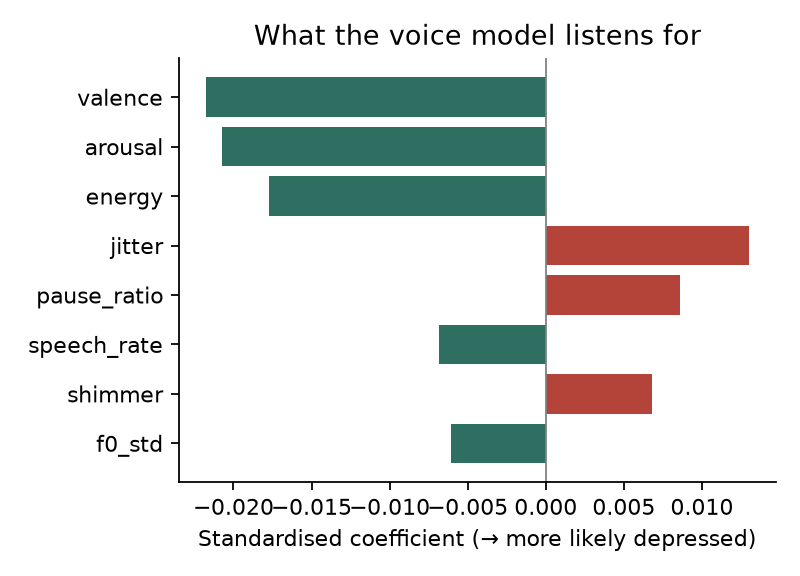
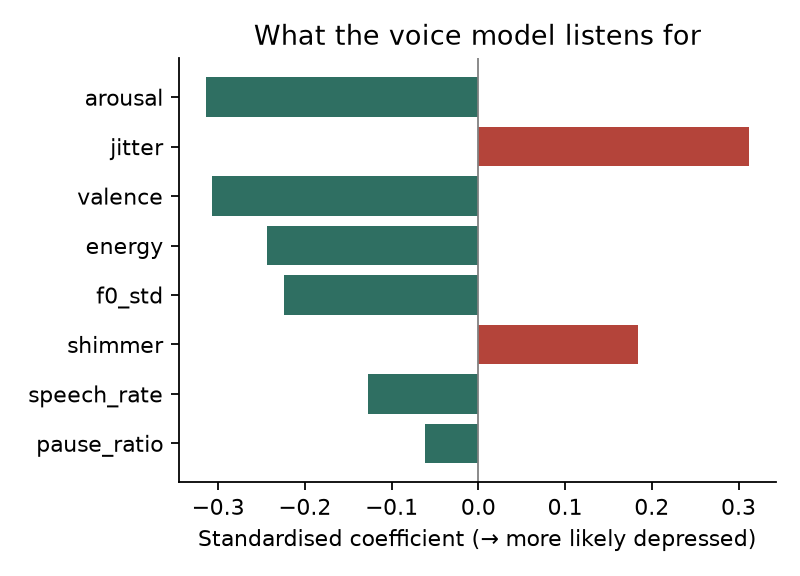
Calibrate acoustic model; add score_clip.py for own recordings
- choose C by log-loss instead of AUC: AUC is scale-blind, so the inner CV
  picked the boundary C=0.001 and squashed all probabilities to ~0.5
  (now C=0.066, AUC 0.77)
- features whose multivariate sign flips vs literature (pause_ratio,
  collinearity) keep the literature direction
- ml/score_clip.py scores any wav/m4a/mp3 against the corpus

diff --git a/ml/score_clip.py b/ml/score_clip.py
@@ -1,0 +1,78 @@
+"""Score your own audio clip(s) against the Androids-trained acoustic model.
+
+  backend/.venv/bin/python ml/score_clip.py ~/Desktop/meg.m4a [more files ...]
+
+Uses the same feature code as the app, refits the speaker-level logistic regression on
+data/features/interview_clips.csv (seconds) and prints, per clip:
+  - P(depressed-like voice) according to the between-person model
+  - each feature's value, where it falls among corpus controls / patients, and its push on the score
+
+NOT a diagnosis: the model is trained on 114 Italian speakers with different microphones, and in the
+app it is only used to weight within-person *change*, never to classify a person.
+"""
+
+import subprocess
+import sys
+import tempfile
+import warnings
+from pathlib import Path
+
+import numpy as np
+import pandas as pd
+
+sys.path.insert(0, str(Path(__file__).resolve().parents[1] / "backend"))
+sys.path.insert(0, str(Path(__file__).resolve().parent))
+warnings.filterwarnings("ignore")
+
+from app.pipeline import audio, emotion, prosody  # noqa: E402
+from corpus import FEATURES  # noqa: E402
+from train_weights import APP_FEATURES, model, speaker_table  # noqa: E402
+
+
+def to_wav(path: Path) -> Path:
+    """soundfile reads wav/flac/ogg; anything else (m4a, mp3, aac …) is converted with macOS afconvert."""
+    try:
+        import soundfile as sf
+
+        sf.info(str(path))
+        return path
+    except Exception:  # noqa: BLE001
+        out = Path(tempfile.mkdtemp()) / (path.stem + ".wav")
+        subprocess.run(["afconvert", "-f", "WAVE", "-d", "LEI16@16000", str(path), str(out)], check=True)
+        return out
+
+
+def main() -> None:
+    if len(sys.argv) < 2:
+        sys.exit(__doc__)
+    spk = speaker_table(pd.read_csv(FEATURES / "interview_clips.csv"))
+    cols = [f"app_{f}" for f in APP_FEATURES]
+    X, y = spk[cols].to_numpy(), spk["label"].to_numpy()
+    clf = model().fit(X, y)
+    scaler, lr = clf[0], clf[-1]
+    ctrl, pat = spk[y == 0], spk[y == 1]
+
+    for arg in sys.argv[1:]:
+        path = Path(arg).expanduser()
+        x = audio.load(str(to_wav(path)))
+        feats = prosody.from_full(prosody.extract_full_signal(x))
+        feats.update(emotion.run_signal(x)[1])
+        v = np.array([[feats[f] for f in APP_FEATURES]])
+        p = clf.predict_proba(v)[0, 1]
+        push = scaler.transform(v)[0] * lr.coef_[0]
+
+        print(f"\n{path.name}  ({len(x) / audio.SR:.1f} s)")
+        print(f"  P(depressed-like voice) = {p:.2f}   (corpus base rate {y.mean():.2f})")
+        print(f"  {'feature':12s} {'value':>9s}  {'pct ctrl':>8s} {'pct pat':>8s}  push")
+        for i, f in sorted(enumerate(APP_FEATURES), key=lambda t: -abs(push[t[0]])):
+            pc = (ctrl[f"app_{f}"] < v[0, i]).mean() * 100
+            pp = (pat[f"app_{f}"] < v[0, i]).mean() * 100
+            arrow = "▲ toward depressed" if push[i] > 0 else "▼ toward control"
+            print(f"  {f:12s} {v[0, i]:9.3f}  {pc:7.0f}% {pp:7.0f}%  {arrow} ({push[i]:+.3f})")
+        if len(x) < 8 * audio.SR:
+            print("  ⚠  Short clip – corpus clips are ~13 s median; 15–60 s of free speech gives steadier features.")
+    print("\nNot a diagnosis: between-person model, Italian corpus, different microphones.")
+
+
+if __name__ == "__main__":
+    main()

diff --git a/ml/train_weights.py b/ml/train_weights.py
@@ -48,7 +48,7 @@ def _logreg() -> LogisticRegressionCV:
     # C (regularisation) chosen by inner CV on the training part of each outer fold
     return LogisticRegressionCV(
         Cs=np.logspace(-3, 2, 12), cv=StratifiedKFold(4, shuffle=True, random_state=0),
-        scoring="roc_auc", class_weight="balanced", max_iter=5000,
+        scoring="neg_log_loss", class_weight="balanced", max_iter=5000,  # log-loss → calibrated probabilities (AUC is scale-blind)
         l1_ratios=(0.0,), use_legacy_attributes=False,  # pure L2
     )
 
@@ -156,11 +156,15 @@ def main() -> None:
     beta = final[-1].coef_[0]
     total = np.abs(beta).sum() or 1.0
     weights = {f: round(float(abs(b) / total), 4) for f, b in zip(feats, beta)}
-    direction = {f: int(np.sign(b)) or LITERATURE[f] for f, b in zip(feats, beta)}
-    disagree = [f for f in feats if direction[f] != LITERATURE[f]]
+    trained_dir = {f: int(np.sign(b)) or LITERATURE[f] for f, b in zip(feats, beta)}
+    disagree = [f for f in feats if trained_dir[f] != LITERATURE[f]]
+    # A sign flip in the multivariate fit is usually collinearity (the feature's unique share given
+    # correlated ones), not evidence that the marginal effect is reversed. For within-person change we
+    # want the marginal direction, so flipped features keep the literature direction (weights stay small).
+    direction = {f: LITERATURE[f] if f in disagree else trained_dir[f] for f in feats}
     print("  weights:", weights)
     if disagree:
-        print("  ⚠  direction contradicts literature for:", disagree)
+        print("  ⚠  multivariate sign contradicts literature for:", disagree, "→ keeping literature direction")
 
     payload = {
         "branch": "acoustic",
@@ -219,7 +223,7 @@ def write_reports(results: dict, y: np.ndarray, feats: list[str], beta: np.ndarr
         f"| {labels.get(k, k)} | {r['mean']:.3f} ± {r['std']:.3f} | {r['pooled']:.3f} |" for k, r in results.items()
     )
     coef_rows = "\n".join(
-        f"| `{f}` | {b:+.3f} | {payload['weights'][f]:.3f} | {'⚠ differs' if f in payload['literature_disagreements'] else 'agrees'} |"
+        f"| `{f}` | {b:+.3f} | {payload['weights'][f]:.3f} | {'⚠ sign flips (collinearity) – literature direction kept' if f in payload['literature_disagreements'] else 'agrees'} |"
         for f, b in sorted(zip(feats, beta), key=lambda t: -abs(t[1]))
     )
     (out / "summary.md").write_text(f"""# Acoustic branch – training summary

diff --git a/ml/reports/acoustic/summary.md b/ml/reports/acoustic/summary.md
@@ -1,28 +1,28 @@
 # Acoustic branch – training summary
 
-Trained 2026-11-14T08:08:15+00:00 on `androids_interview` · 114 speakers (62 depressed) · folds: corpus fold-lists.csv (100% of speakers)
+Trained 2026-11-14T08:26:43+00:00 on `androids_interview` · 114 speakers (62 depressed) · folds: corpus fold-lists.csv (100% of speakers)
 
 ## Speaker-independent AUC
 
 | Model | AUC (mean ± sd over folds) | Pooled out-of-fold |
 |---|---|---|
-| Our 8 features | 0.762 ± 0.073 | 0.722 |
-| All 88 eGeMAPS | 0.857 ± 0.073 | 0.860 |
-| Gender + age only | 0.475 ± 0.161 | 0.505 |
-| wav2vec2 probe | 0.897 ± 0.065 | 0.891 |
+| Our 8 features | 0.770 ± 0.076 | 0.743 |
+| All 88 eGeMAPS | 0.877 ± 0.055 | 0.860 |
+| Gender + age only | 0.475 ± 0.161 | 0.485 |
+| wav2vec2 probe | 0.905 ± 0.061 | 0.901 |
 
 ## Coefficients (standardised; + = higher value → more likely depressed)
 
 | Feature | β | Weight in app | vs. literature |
 |---|---|---|---|
-| `valence` | -0.022 | 0.214 | agrees |
-| `arousal` | -0.021 | 0.204 | agrees |
-| `energy` | -0.018 | 0.175 | agrees |
-| `jitter` | +0.013 | 0.128 | agrees |
-| `pause_ratio` | +0.009 | 0.084 | agrees |
-| `speech_rate` | -0.007 | 0.067 | agrees |
-| `shimmer` | +0.007 | 0.067 | agrees |
-| `f0_std` | -0.006 | 0.060 | agrees |
+| `arousal` | -0.314 | 0.177 | agrees |
+| `jitter` | +0.312 | 0.176 | agrees |
+| `valence` | -0.307 | 0.173 | agrees |
+| `energy` | -0.244 | 0.138 | agrees |
+| `f0_std` | -0.224 | 0.126 | agrees |
+| `shimmer` | +0.184 | 0.104 | agrees |
+| `speech_rate` | -0.127 | 0.072 | agrees |
+| `pause_ratio` | -0.062 | 0.035 | ⚠ sign flips (collinearity) – literature direction kept |
 
 ![ROC](roc.png) ![Coefficients](coefficients.png)
 
